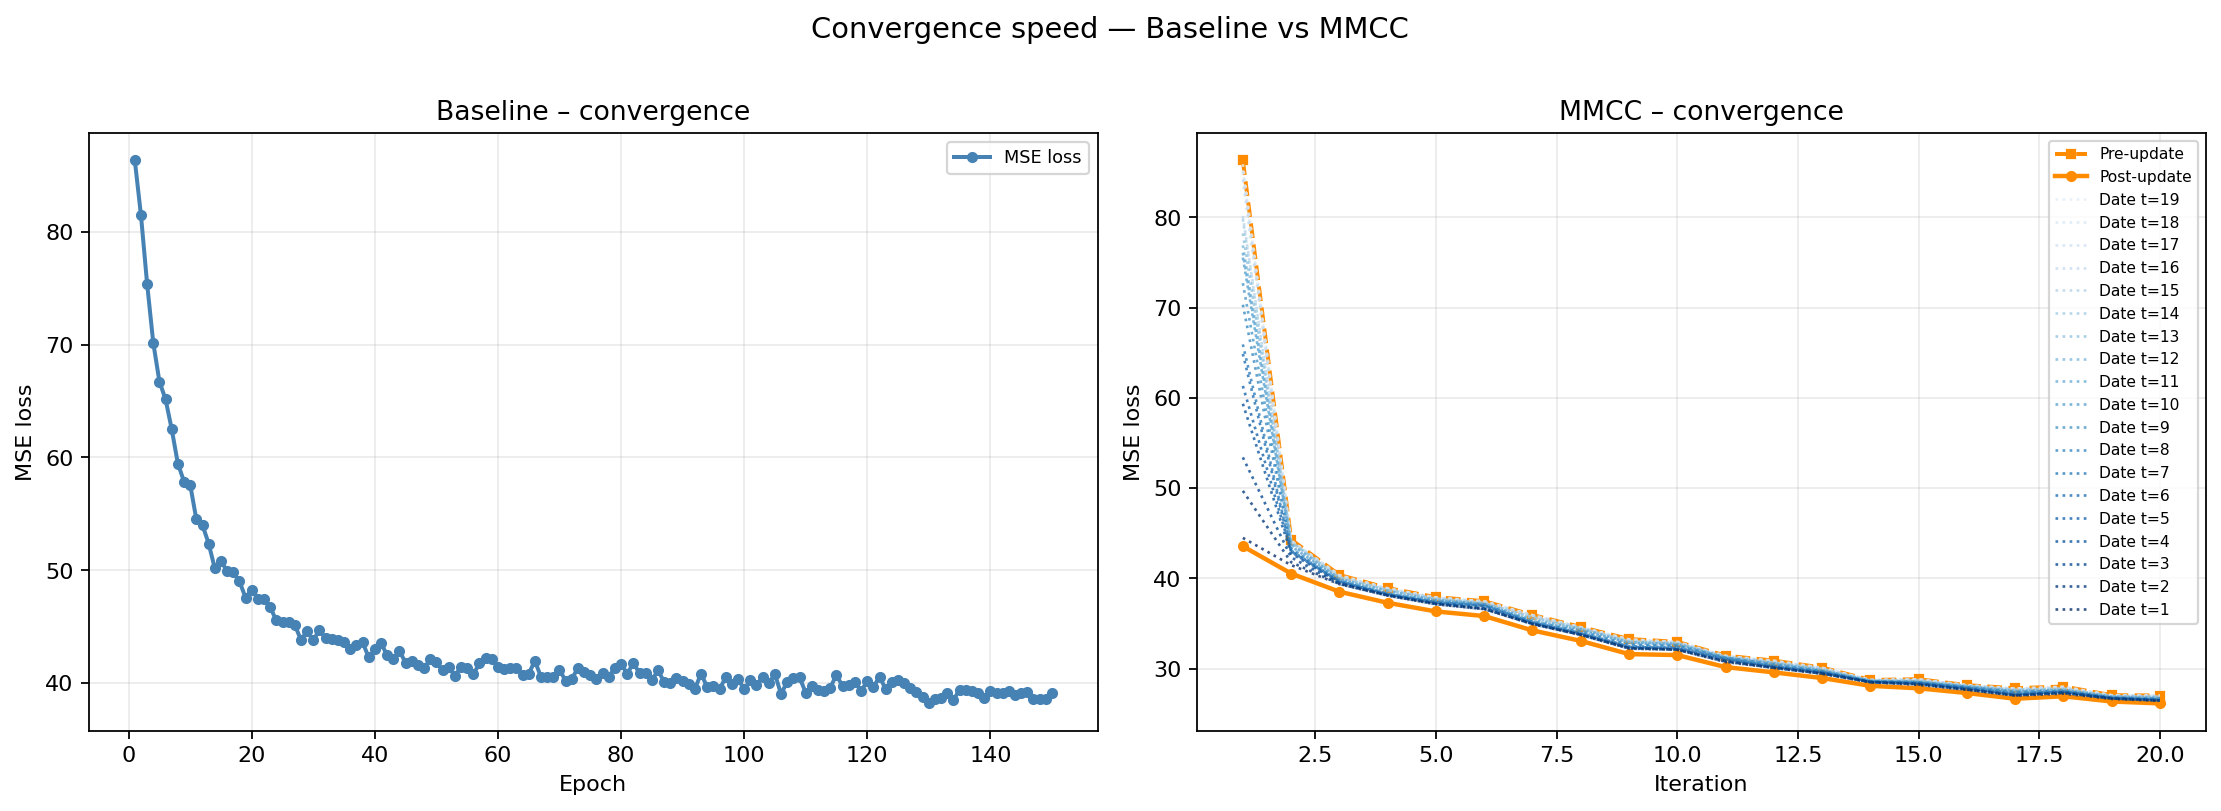
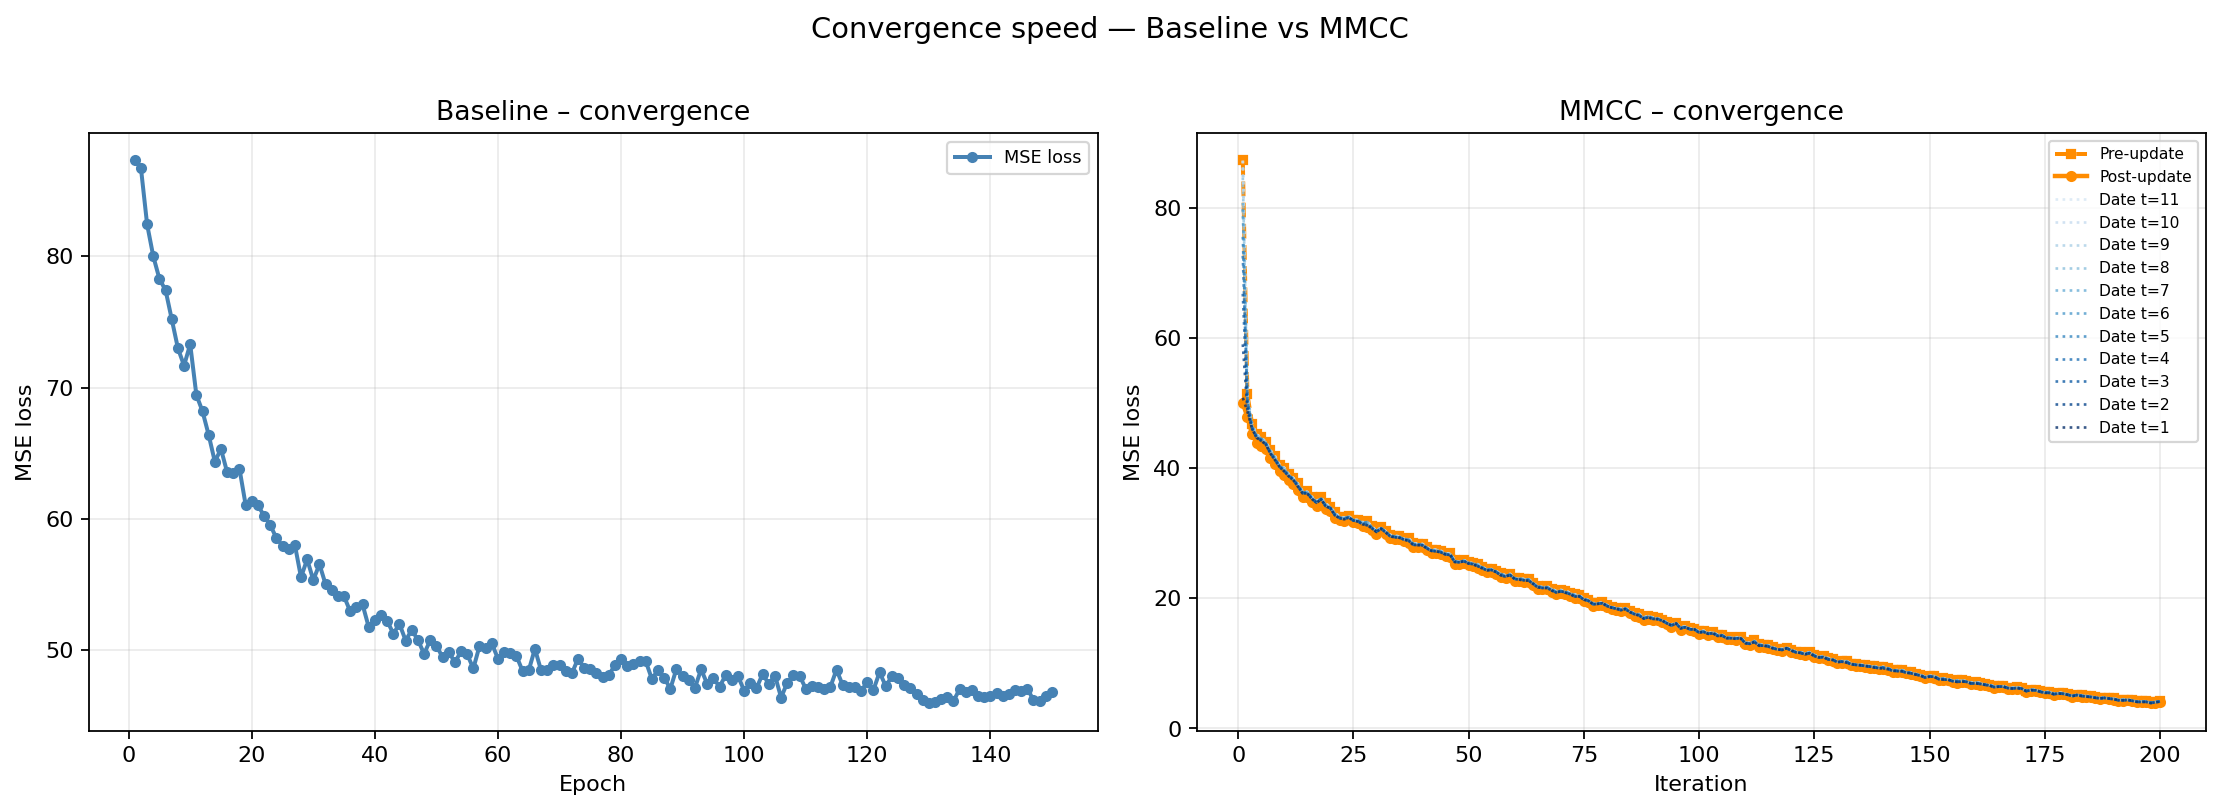
change params

diff --git a/src/mmcc_hedging/network.py b/src/mmcc_hedging/network.py
@@ -9,7 +9,7 @@ from torch import Tensor, nn
 
 from mmcc_hedging.params import NetworkParams
 
-
+     
 def state_features(
     time_index: int,
     spot: Tensor,
@@ -67,7 +67,7 @@ class MLPPolicy(nn.Module):
 
         for i in range(len(layer_sizes) - 2): # Loop through the hidden layers (excluding the output layer)
             layers.append(nn.Linear(layer_sizes[i], layer_sizes[i + 1]))
-            layers.append(nn.ReLU()) # Activation function after each hidden layer
+            layers.append(nn.SiLU()) # Activation function after each hidden layer
 
         layers.append(nn.Linear(layer_sizes[-2], layer_sizes[-1])) # Linear layer for the output
         self.net = nn.Sequential(*layers)
@@ -146,7 +146,7 @@ class DatePolicies(nn.Module):
 class InitialControlOutput:
     """Batched initial premium y and initial inventory q_0."""
 
-    premium: Tensor
+    premium: Tensor #premium correpsond à y ?
     position: Tensor
 
 

diff --git a/scripts/run_experiment.py b/scripts/run_experiment.py
@@ -40,10 +40,10 @@ def main() -> None:
 
     heston_params = HestonParams(
         initial_spot=100.0,
-        initial_variance=0.04,
-        risk_free_rate=0.02,
+        initial_variance=0.0225,
+        risk_free_rate=0.05,
         maturity=1.0,
-        num_steps=20,
+        num_steps=12,
     )
 
     option_params = AsianOptionParams(
@@ -64,14 +64,14 @@ def main() -> None:
     )
 
     training_params = TrainingParams(
-    num_iterations=20,
+    num_iterations=200,
     num_paths=10000,
     batch_size=1024,
-    num_epochs_per_date=60,
-    num_epochs_initial_control=60,
+    num_epochs_per_date=80,
+    num_epochs_initial_control=80,
     baseline_epochs=150,
     evaluation_num_paths=30000,
-    learning_rate=5e-4,
+    learning_rate=3e-4, # un taux plus bas, si ça oscille
     seed=223,
     evaluation_seed=459,
     verbose=True,

diff --git a/src/mmcc_hedging/mmcc.py b/src/mmcc_hedging/mmcc.py
@@ -15,7 +15,7 @@ from mmcc_hedging.params import TrainingParams
 
 
 def hedging_loss(terminal_wealth: Tensor, payoff: Tensor) -> Tensor:
-    """Return E[(W_N - H)^2] estimated by a Monte Carlo average."""
+    """Return E[(Y_N - g(.))^2] estimated by a Monte Carlo average."""
 
     return torch.mean((terminal_wealth - payoff) ** 2)
 

diff --git a/src/mmcc_hedging/hedging.py b/src/mmcc_hedging/hedging.py
@@ -40,7 +40,7 @@ class HedgingTrajectory:
 
     @property
     def hedging_error(self) -> Tensor:
-        """Return W_N - H path by path."""
+        """Return Y_N - g(.) path by path."""
 
         return self.terminal_wealth - self.payoff
 
